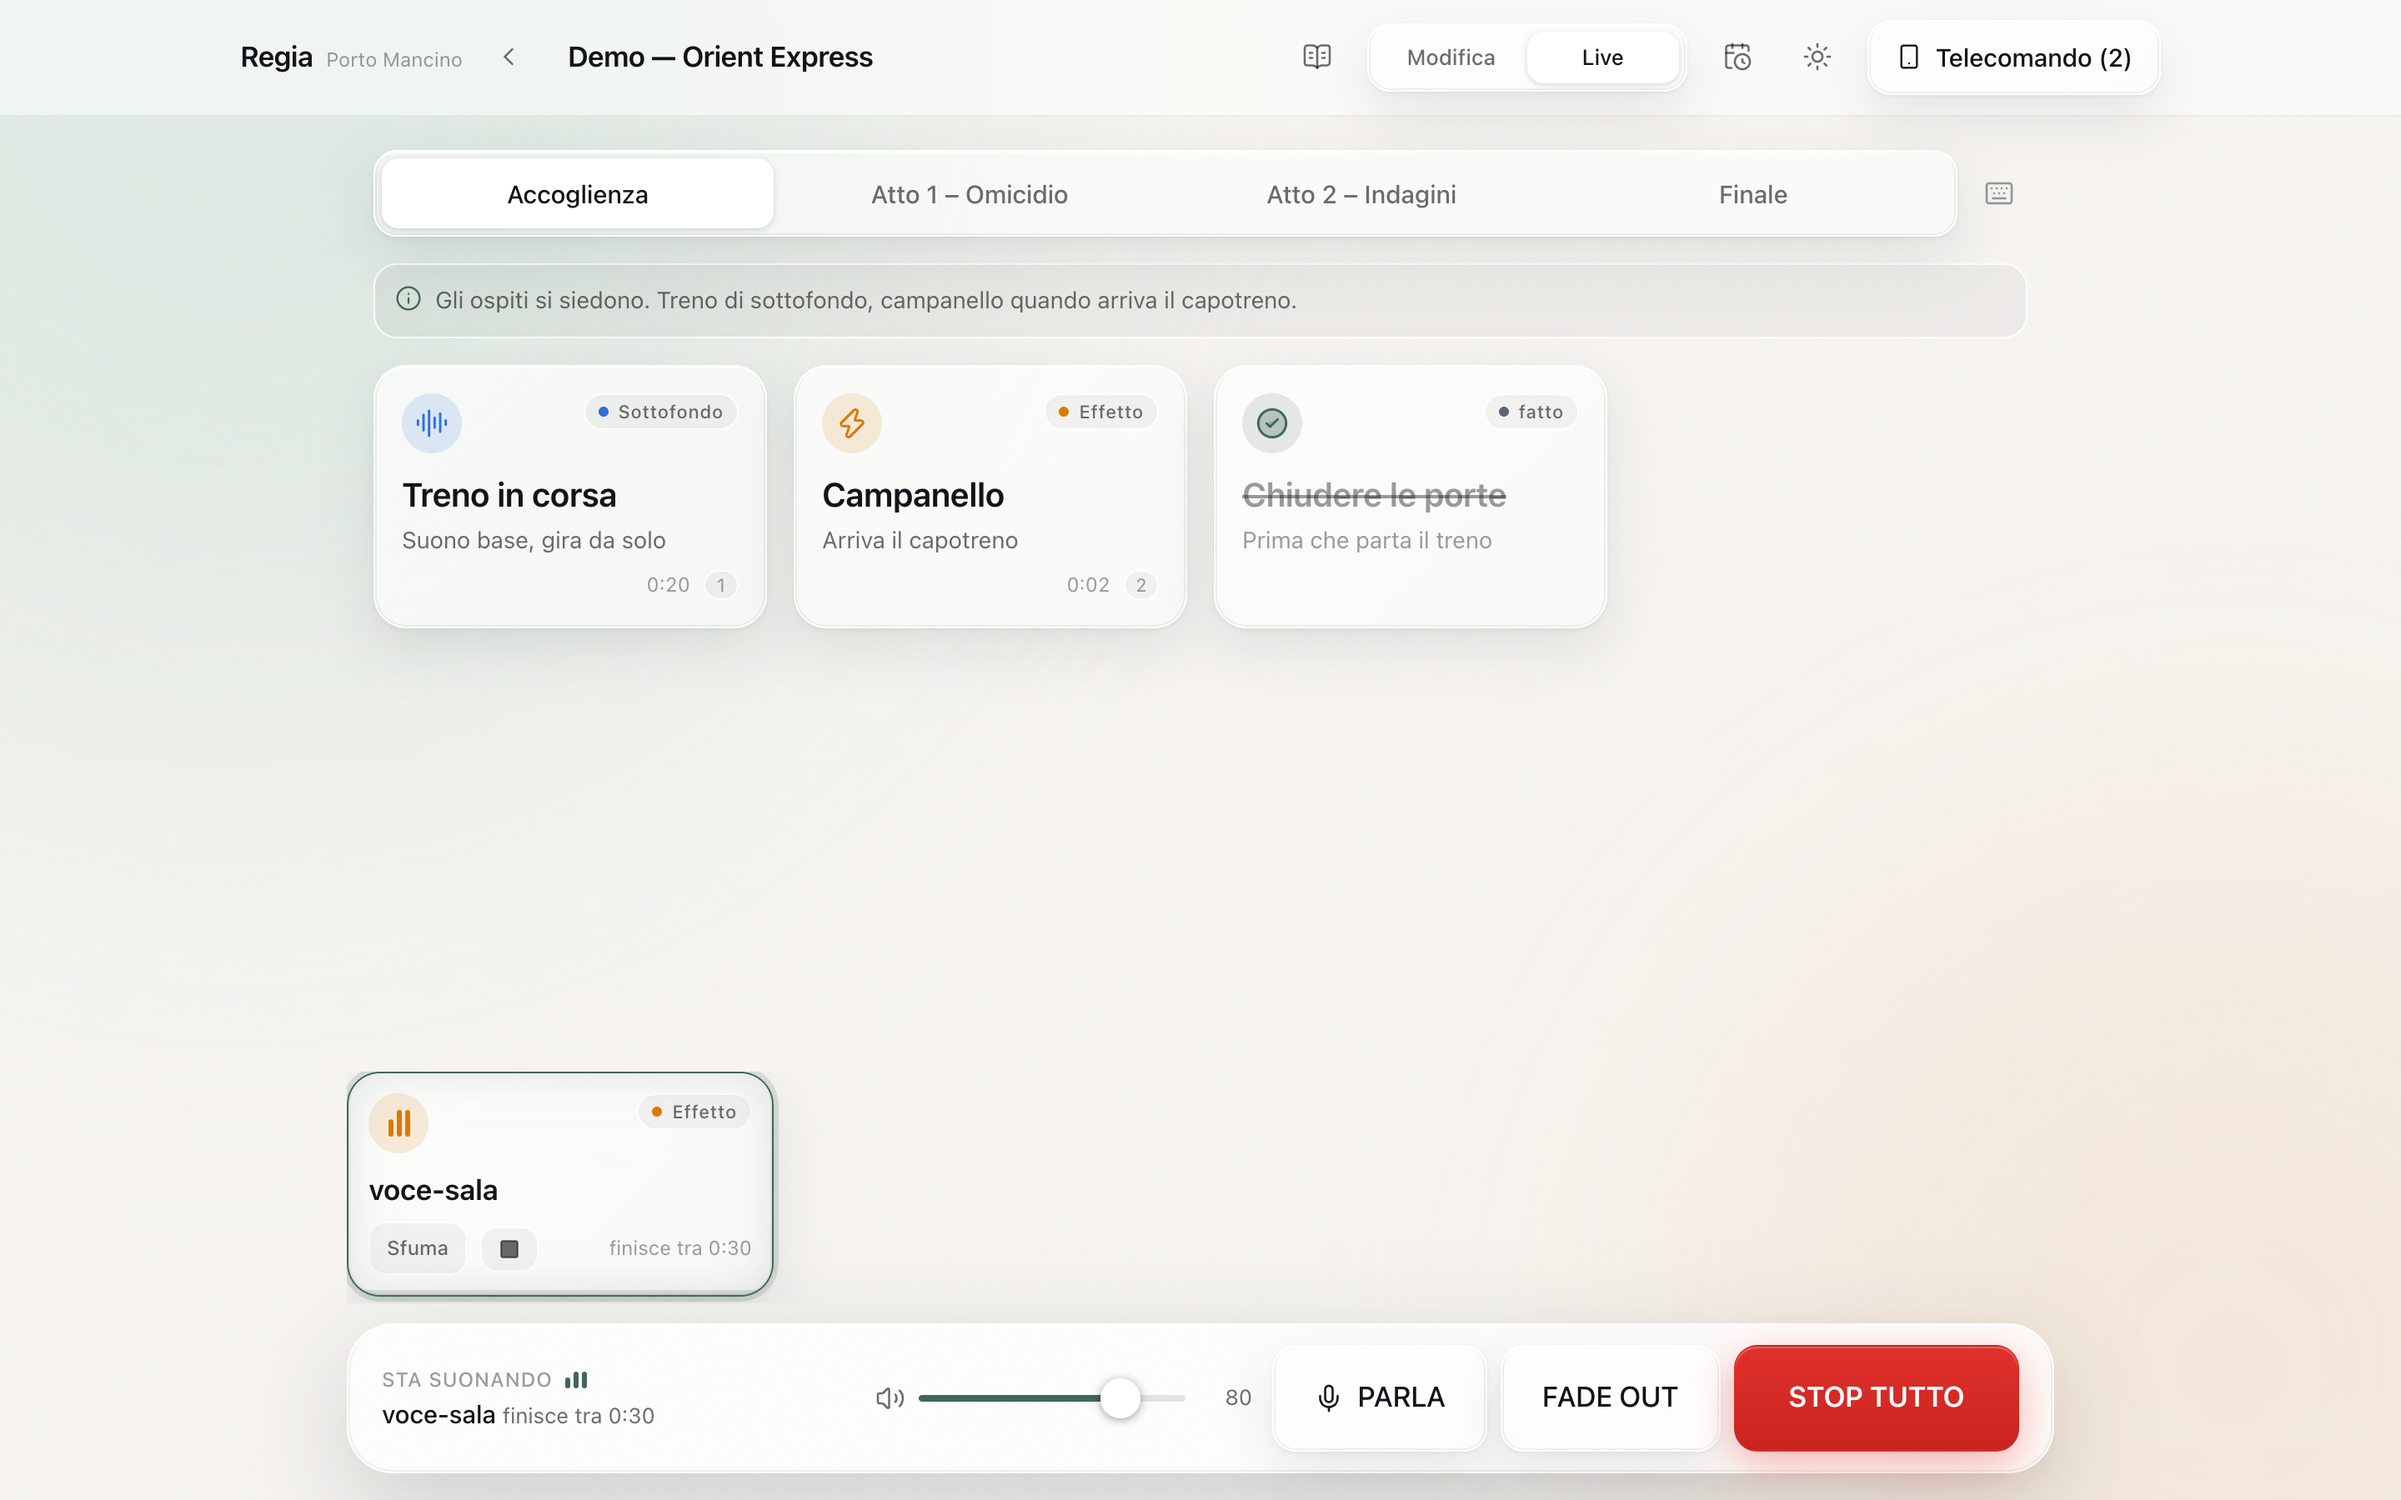
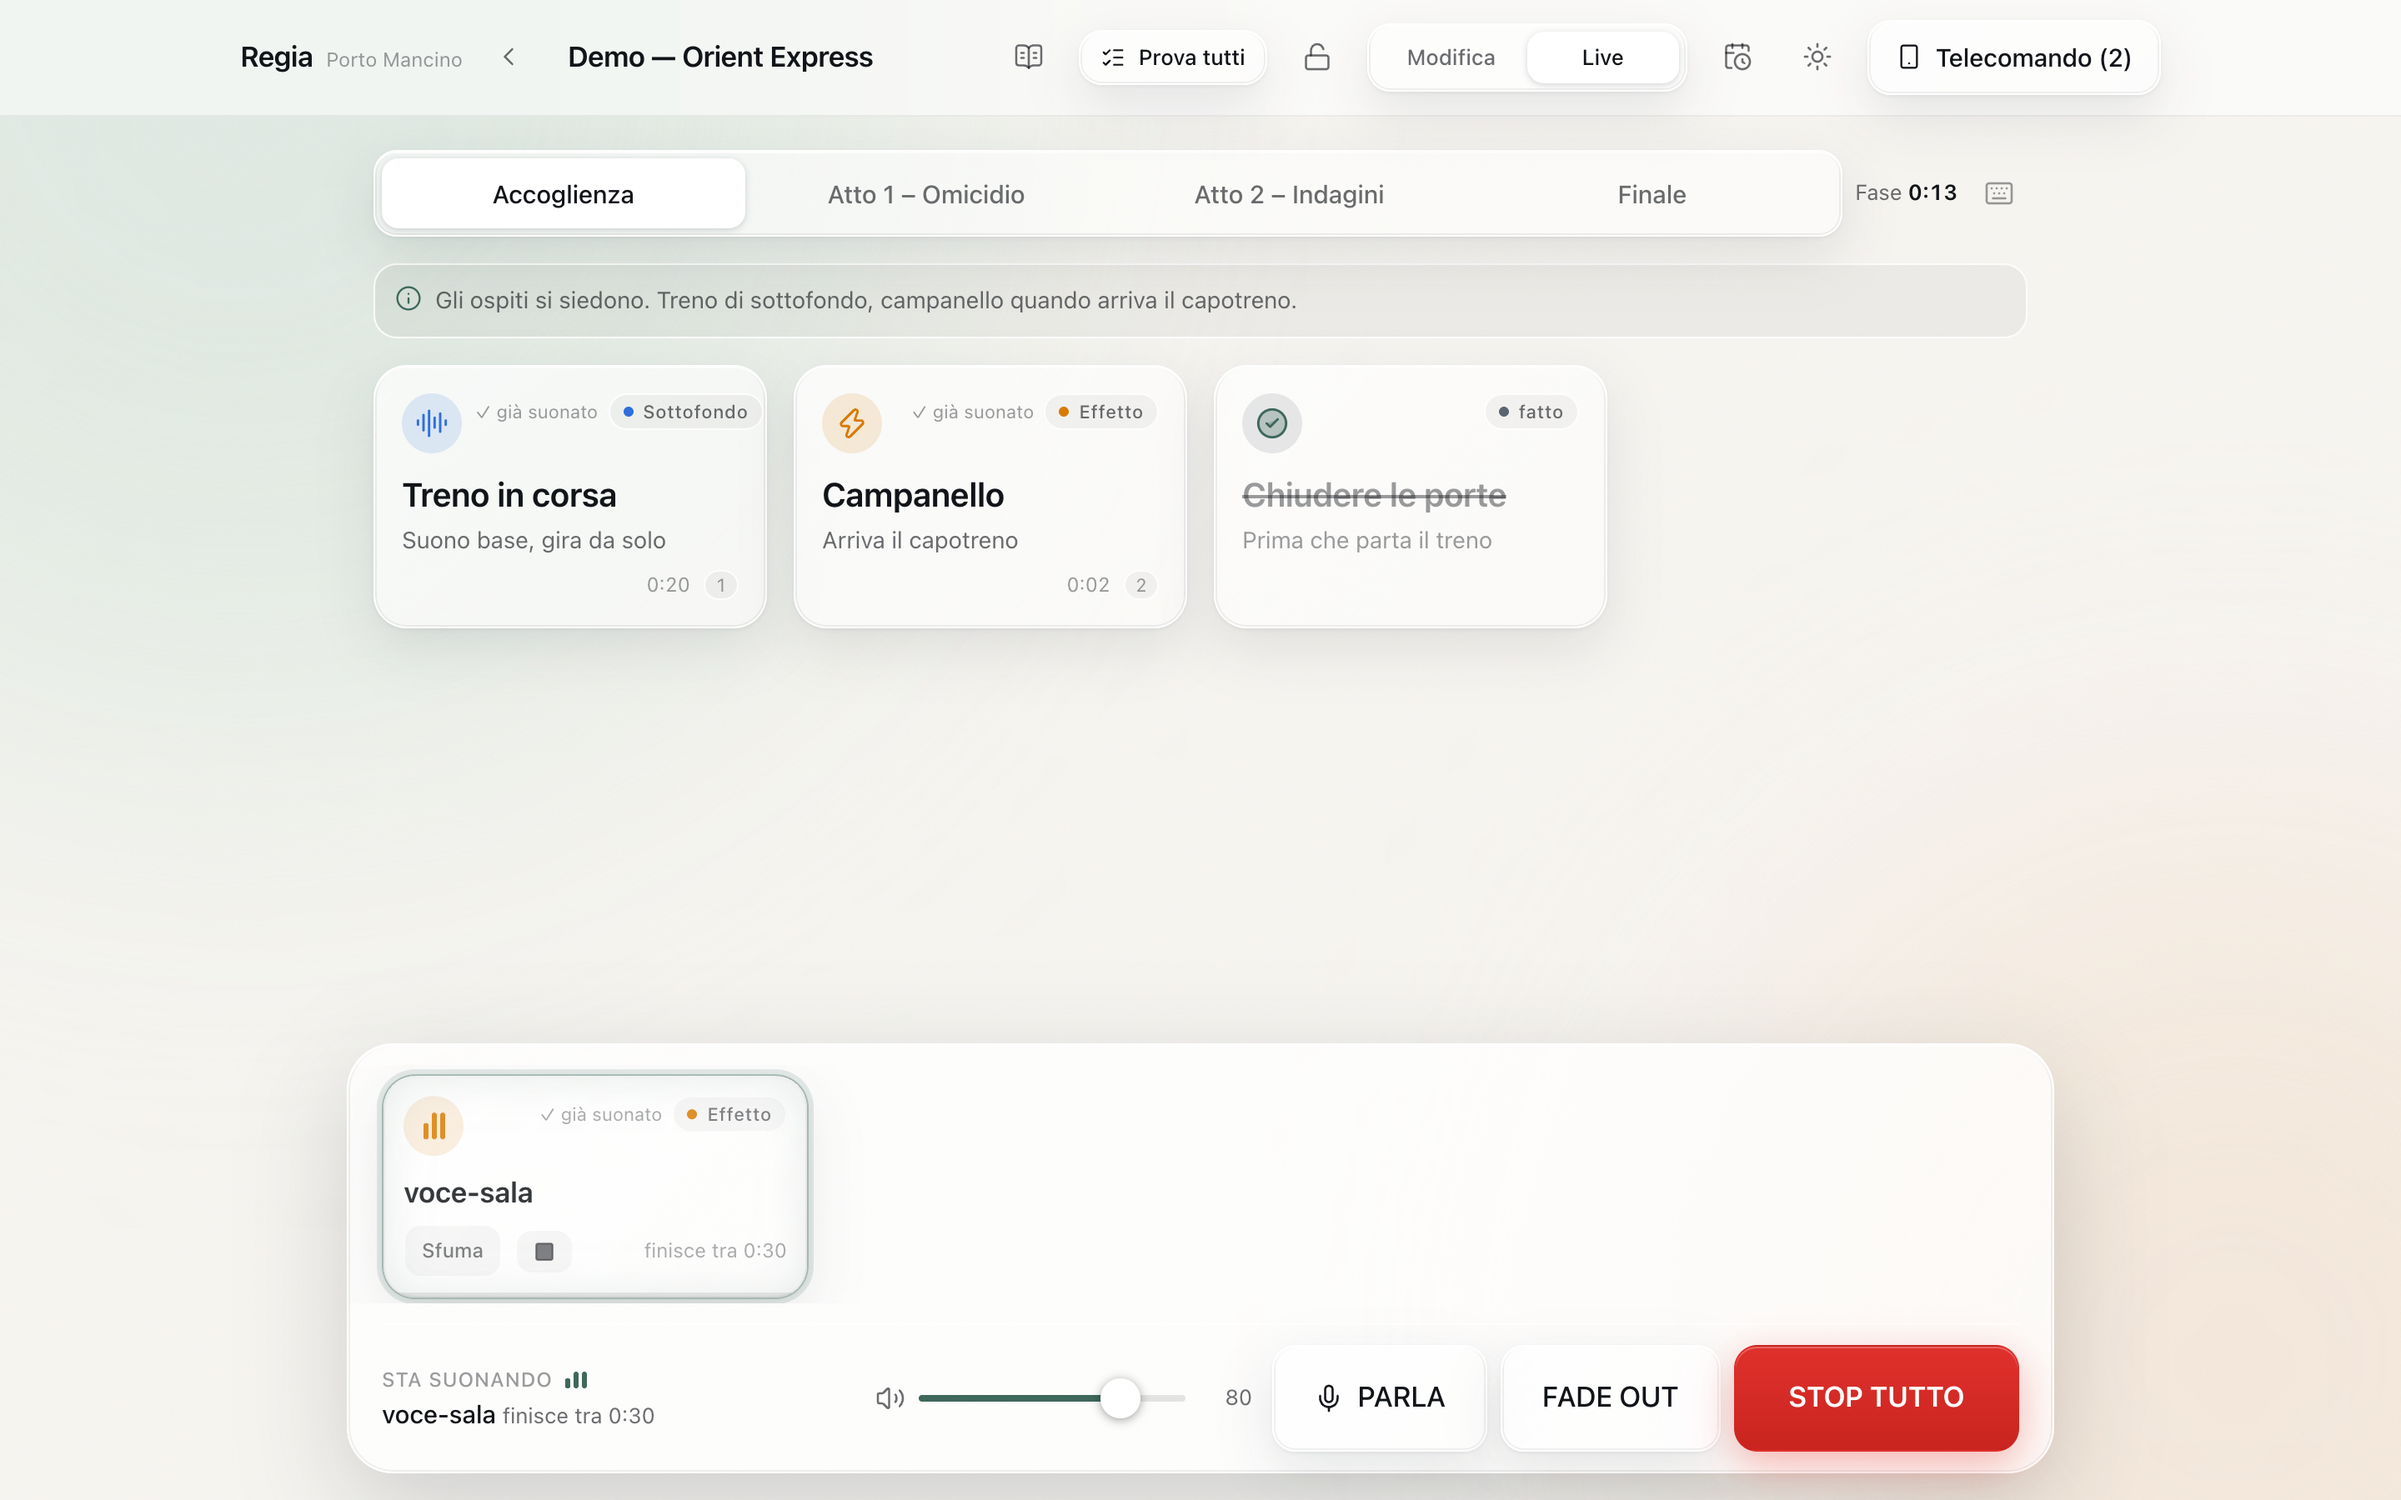
s12: riga S12 nel registro, guida per Valerio e README 'Novità 1.3.0'

diff --git a/docs/GUIDA_VALERIO.md b/docs/GUIDA_VALERIO.md
@@ -22,7 +22,17 @@
    - **Promemoria** (grigio): non suona. È una cosa da fare: in serata si tocca
      e si segna con la spunta. Le spunte si vedono da tutti i telefoni.
 9. Scegli cosa fa al suono base: **Resta / Si abbassa / Si ferma**.
-10. Prova tutto in **Live** prima che arrivi la gente.
+10. Prova tutto in **Live** prima che arrivi la gente. Il pulsante **Prova tutti**
+    suona 3 secondi di ogni casella, una alla volta, e alla fine dice quali file
+    mancano o non si leggono, e quanto è forte ognuno.
+10b. Quando importi un file, la Regia misura da sola quanto è forte e lo porta a
+    un livello uguale agli altri ("auto +4 dB"). Se vuoi ritoccare a orecchio:
+    cursore **Volume** (−12…+12 dB) sulla casella e **Ascolta** per sentire.
+    Per i suoni caricati prima: menu ⋯ in cima → **Analizza tutti i suoni**.
+10c. **Passaggio tra sottofondi** (in cima al format): quando parte un
+    sottofondo mentre un altro suona, i due si scambiano dolcemente (2 secondi).
+10d. **Durata prevista** di ogni fase (minuti): serve all'orologio di scaletta in Live.
+10e. **Usi previsti in serata** sulla casella: in Live vedrai "usato 1/3".
 11. Collega il telefono dell'assistente: pannello **Telecomando**, inquadra il QR,
     scrivi il PIN. Se il telefono non si collega: LEGGIMI.txt, «Se il telefono
     non vede il Mac». Metti il blocco schermo del telefono su **Mai**.
@@ -38,7 +48,7 @@
 - Premere un pulsante = parte il suono. Ripremerlo = si ferma.
   Sul pulsante che suona ci sono anche **Sfuma** (dolce) e **■** (subito).
 - I **promemoria** si toccano per segnarli fatti (spunta verde).
-  "Azzera spunte" è nel menu ⋯ della fase, in Modifica.
+  "Azzera serata" è nel menu ⋯ della fase, in Modifica.
 - La nota della fase sta sopra i pulsanti: un tocco la nasconde, l'icona ⓘ la riapre.
 - Le frecce **‹ ›** cambiano fase.
 - Sui pulsanti che suonano vedi **"finisce tra 0:42"**: negli ultimi 10 secondi
@@ -46,14 +56,29 @@
 - **PARLA** (microfono): mentre parli al pubblico il suono base si abbassa da solo;
   ripremi e risale. Sul Mac: tasto **P**. Quanto si abbassa si regola dal sole/luna.
 - **FADE OUT**: sfuma tutto dolcemente. **STOP TUTTO** (rosso): silenzio immediato.
+  Sul telefono STOP TUTTO parte solo **tenendo premuto** per un attimo (il
+  pulsante si riempie): un tocco per sbaglio non fa nulla.
+- Il **lucchetto** in alto (Mac) blocca le modifiche per la serata: nessuno
+  può cambiare niente per sbaglio. Si sblocca dalla pagina Modifica.
+- In alto vedi **"Fase 12:40 / 15:00"** e se sei in anticipo o in ritardo sulla
+  scaletta (verde, ambra, rosso). Sul telefono, sotto il nome della fase.
+- Sulle caselle: **"usato 1/3"** e **"✓ già suonato"**. Una casella che ha finito
+  gli usi previsti si attenua ma si può sempre premere.
+  "Azzera serata" (menu ⋯ della fase) azzera spunte e contatori.
 - Se il telefono dice **"Regia non collegata"**: guarda il Mac, riapri la pagina
   della Regia. Il telefono si ricollega da solo.
 - Dalla tastiera del Mac: **ESC** = stop tutto, **F** = fade out, **P** = parla,
   **1–9** = i suoni della fase (i promemoria non contano),
-  **Q W E R T** = le prime cinque caselle della riga Sempre, **← →** = cambia fase.
+  **Q W E R T** = le pillole in evidenza della riga Sempre, **← →** = cambia fase.
 
 ## Dopo la serata
 
 - Il **Diario** (icona calendario in alto, solo sul Mac) ricorda tutto da solo:
   quando è partito ogni suono, i cambi di fase, chi ha premuto cosa.
   Si può scaricare la serata in CSV per riguardarla con calma.
+- In cima a ogni serata c'è il **riepilogo**: inizio, fine, durata, tempo per
+  fase contro il previsto, STOP TUTTO, possibili errori, comandi dal telefono.
+- **Suoni mai usati**: il Diario elenca le caselle mai partite nelle ultime 10
+  serate; in Modifica hanno un'etichetta grigia.
+- Nella Home, menu ⋯ del format: **Duplica** (stessi suoni, si apre subito) e
+  **Archivia** (sparisce da Live e telefono, resta sotto "Archiviati" con Ripristina).

diff --git a/docs/SESSIONS_LOG.md b/docs/SESSIONS_LOG.md
@@ -462,3 +462,51 @@ DECISIONI PRESE DA SOLO (S11)
   anche in una finestra che non comanda.
 - File ≥ 180 s (streaming) in "Analizza tutti": si scaricano e decodificano
   comunque (siamo in Modifica, non in Live).
+
+## S12 — 24 settembre 2026 — dati (blocco C di v1.3.0)
+
+- **C1 Durata prevista e orologio di scaletta**: campo per fase in Modifica
+  (`durataPrevista`, minuti, non sulla riga Sempre). shared/scaletta.ts (pura,
+  6 test): inizio serata = primo "suono partito" del giorno; fase corrente =
+  ultimo "fase cambiata"/"format aperto" dopo l'inizio; trascorso; previsto;
+  scarto cumulato all'ingresso della fase (reale − somma delle previste
+  precedenti, solo se almeno una c'è); verde ≤ 2 min, ambra ≤ 5, rosso oltre.
+  Live sul Mac: "Fase 12:40 / 15:00" + pillola "in ritardo di 8 min"; telefono:
+  riga piccola sotto il nome della fase. I dati arrivano dal diario di oggi
+  (rilettura ogni 20 s e 1 s dopo un cambio di fase).
+- **C2 Riepilogo serata**: server/src/diario.ts `riepilogoSerata` (pura, test
+  su una serata scritta a mano): inizio, fine, durata, tabella per fase
+  (prevista / reale / scarto), STOP TUTTO, possibili errori (fermato entro 2 s
+  dalla partenza), comandi telefono vs Mac (soundcheck e blocco esclusi).
+  Riquadro in cima alla serata nel Diario. Export CSV: blocco "chiave,valore"
+  in cima, riga vuota, poi la cronologia (un solo file).
+- **C3 Suoni mai usati**: `GET /api/statistiche/mai-usati` (ultime 10 serate,
+  per format usato le caselle mai partite, promemoria esclusi; cache in memoria
+  invalidata quando si scrive il diario o cambia la config). Sezione nel
+  Diario e badge grigio in Modifica.
+- **C4 Duplica e archivia**: "Duplica" ora copia fasi, caselle, note, riga
+  Sempre, durate previste e crossfade con id nuovi e gli STESSI file audio
+  (riferimenti); la copia si apre subito in Modifica; eliminare un format non
+  cancella i file usati da un altro. "Archivia" (`archiviato`): sparisce da
+  Live, Telecomando e Home; sezione "Archiviati" con Ripristina; Live vietata
+  sugli archiviati; se era quello aperto in Live si passa al primo non archiviato.
+- Test vecchi aggiornati: il test API della duplicazione ora pretende lo
+  stesso file (non una copia); il controllo end-to-end del CSV accetta il
+  riepilogo in cima.
+- Verifica: 106 test + typecheck verdi; **122/122 end-to-end** (nuovi:
+  orologio Mac e telefono, riepilogo e CSV, mai usati e badge, Duplica dal
+  menu con stessi file, archiviato assente dal telefono). Screenshot in
+  docs/screenshots/s12/ (orologio "in ritardo di 8 min" con diario finto).
+
+DECISIONI PRESE DA SOLO (S12)
+- Il riepilogo e la statistica "mai usati" ragionano per NOMI (di format, fase
+  e casella), perché il diario registra i nomi: rinominare una casella la fa
+  contare come nuova.
+- Il CSV resta un solo file: riepilogo in cima come righe "chiave,valore",
+  una riga vuota, poi la cronologia.
+- L'orologio di scaletta legge il diario di oggi via REST ogni 20 s (Mac e
+  telefono): niente campi nuovi nello stato WebSocket.
+- Nel riepilogo di una serata ancora in corso l'ultima fase mostra lo scarto
+  parziale (es. "-30 min"): il riquadro è pensato per le serate finite.
+- Le fasi/caselle duplicate singolarmente (menu della fase/casella) copiano
+  ancora i file su disco come prima; solo "Duplica format" usa i riferimenti.

diff --git a/README.md b/README.md
@@ -24,6 +24,19 @@ Lo zip si produce sul Mac di sviluppo con `npm run pacchetto`
 (finisce in `dist-pacchetti/`). Sostituire la cartella "Regia" con una versione
 nuova non tocca suoni e serate: vivono in `~/Regia-dati`.
 
+## Novità 1.3.0
+
+- **Prova tutti** (Live, Mac): 3 secondi di ogni casella, esito con file mancanti e picchi.
+- **STOP TUTTO sul telefono** solo con pressione lunga (600 ms): niente stop per sbaglio.
+- **Blocca modifiche** (lucchetto): Modifica in sola lettura su ogni finestra per la serata.
+- **"Usato 1/3" e "già suonato"** sulle caselle; "Azzera serata" nel menu della fase.
+- **Livello automatico** all'importazione (obiettivo −18 dBFS, picco ≤ −1) + cursore in dB e "Ascolta".
+- **Passaggio morbido tra sottofondi** (0–5 s per format, default 2).
+- **Orologio di scaletta**: durata prevista per fase, "Fase 12:40 / 15:00", anticipo/ritardo.
+- **Riepilogo della serata** nel Diario (anche nel CSV) e **suoni mai usati** nelle ultime 10 serate.
+- **Duplica** un format riusando gli stessi file; **Archivia** e ripristina.
+- Config vecchie compatibili: tutti i campi nuovi sono facoltativi.
+
 ## Come si avvia
 
 - Doppio click su **Avvia Regia.command** nella cartella Regia. Si apre una
